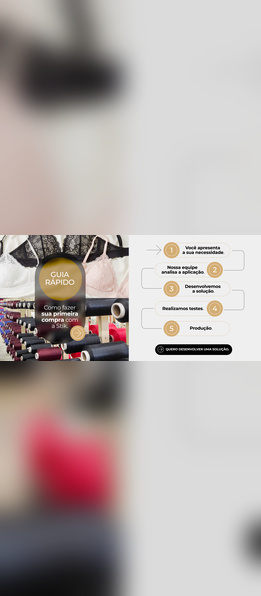
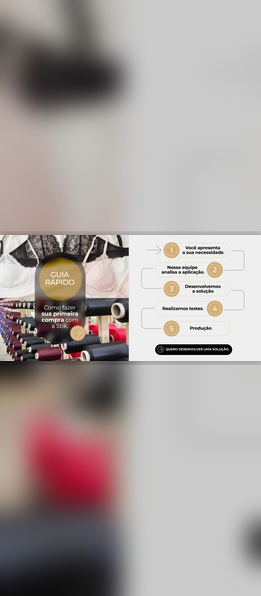
adaptação de imagens para telas menores

diff --git a/stylesheet/css/style.css b/stylesheet/css/style.css
@@ -383,11 +383,12 @@ body.sidebar-open .top-header .main-header{
     height: 100vh;
     min-height: 100svh;
     width: 100%;
-    overflow: hidden;
+    /* overflow: hidden; */
     display: flex;
     justify-content: center;
     align-items: center;
     background-color: var(--color-bg);
+    object-fit: fill;
 }
 
 .video-hero-section::after {
@@ -436,7 +437,7 @@ body.sidebar-open .top-header .main-header{
     left: 0;
     width: 100%;
     height: 100%;
-    object-fit: cover;
+    object-fit: fill;
     z-index: 1; /* Para garantir que fique abaixo do conteúdo da overlay */
 }
 
@@ -445,6 +446,14 @@ body.sidebar-open .top-header .main-header{
     background: #000;
     contain: layout paint;
     pointer-events: none;
+}
+
+.hero-slideshow picture {
+    position: absolute;
+    inset: 0;
+    display: block;
+    width: 100%;
+    height: 100%;
 }
 
 .hero-slideshow img {
@@ -462,6 +471,11 @@ body.sidebar-open .top-header .main-header{
 .hero-slideshow img.is-active {
     opacity: 1;
     z-index: 2;
+}
+
+.video-hero-section .hero-slideshow img,
+.video-hero-section .hero-slideshow picture img {
+    object-fit: fill !important;
 }
 
 @media (prefers-reduced-motion: reduce) {
